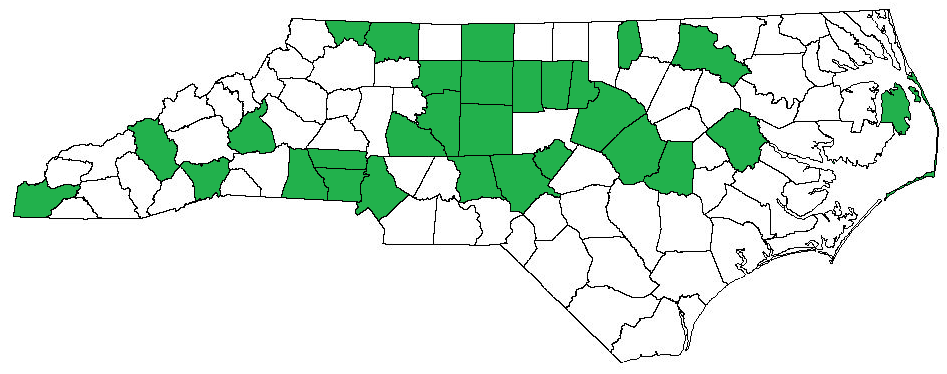
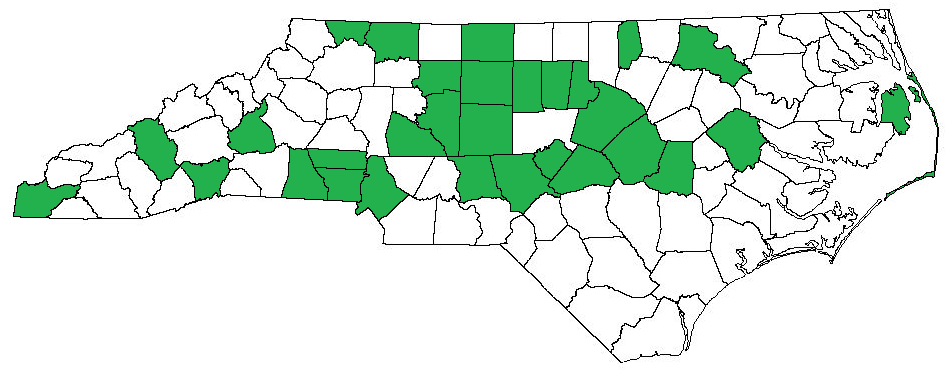
bbq update 2/4/22 + hiking typo

Changed region(s): [[0.5818, 0.3824, 0.6737, 0.5294]]

diff --git a/bbq/index.html b/bbq/index.html
@@ -52,9 +52,9 @@ Both use vinegar as their base for the sauce, often with red pepper (among other
 <br>
 <center>
 	<h2>Current County Counter</h2>
-	<h3><span style="color:red">29</span> / 100</h3>
-	<h3>43 different in-state BBQ joints</h3>
-	<p>(last updated 1/29/2022)</p>
+	<h3><span style="color:red">30</span> / 100</h3>
+	<h3>44 different in-state BBQ joints</h3>
+	<p>(last updated 2/4/2022)</p>
 </center>
 <br>
 
@@ -128,6 +128,11 @@ Both use vinegar as their base for the sauce, often with red pepper (among other
 <p><b>Henderson County</b></p>
 <ul>
 	<li>Hubba Hubba Smokehouse - Flat Rock - 6/8/2021 - <i><span class="ncbsbbq">NCBS BBQ Trail</span></i>; <i><span class="ncbsbbq">True 'Cue NC</span></i></li>
+</ul>
+<br>
+<p><b>Hoke County</b></p>
+<ul>
+	<li>Kim's Barbecue House - Dunn - 2/4/2022</li>
 </ul>
 <br>
 <p><b>Johnston County</b></p>

diff --git a/hiking/index.html b/hiking/index.html
@@ -165,7 +165,7 @@
 
 <h2>Outer Banks</h2>
 <ul>
-	<li><a href="obx\bodie-island-lighthouse\bodie-island-lighthouse.html">Bodi	e Island Lighthouse</a></li>
+	<li><a href="obx\bodie-island-lighthouse\bodie-island-lighthouse.html">Bodie Island Lighthouse</a></li>
 	<li><a href="obx\fort-fisher\fort-fisher.html">Fort Fisher State Recreation Area</a></li>
 	<li><a href="obx\jockeys-ridge\jockeys-ridge.html">Jockeys Ridge State Park</a></li>
 	<li><a href="obx\wright-brothers\wright-brothers.html">Wright Brothers Monument</a></li>
